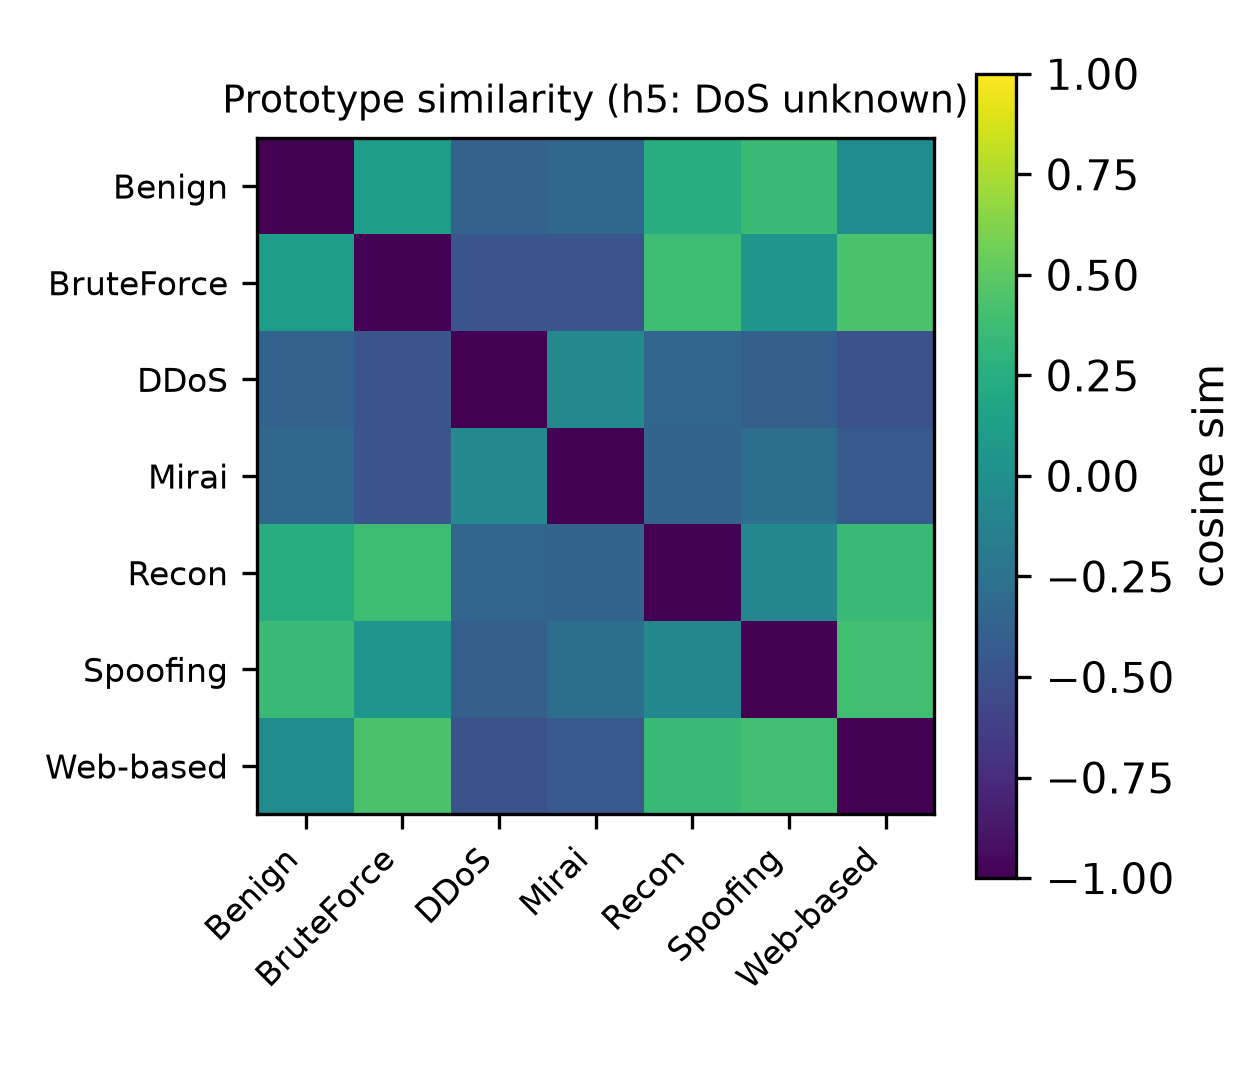
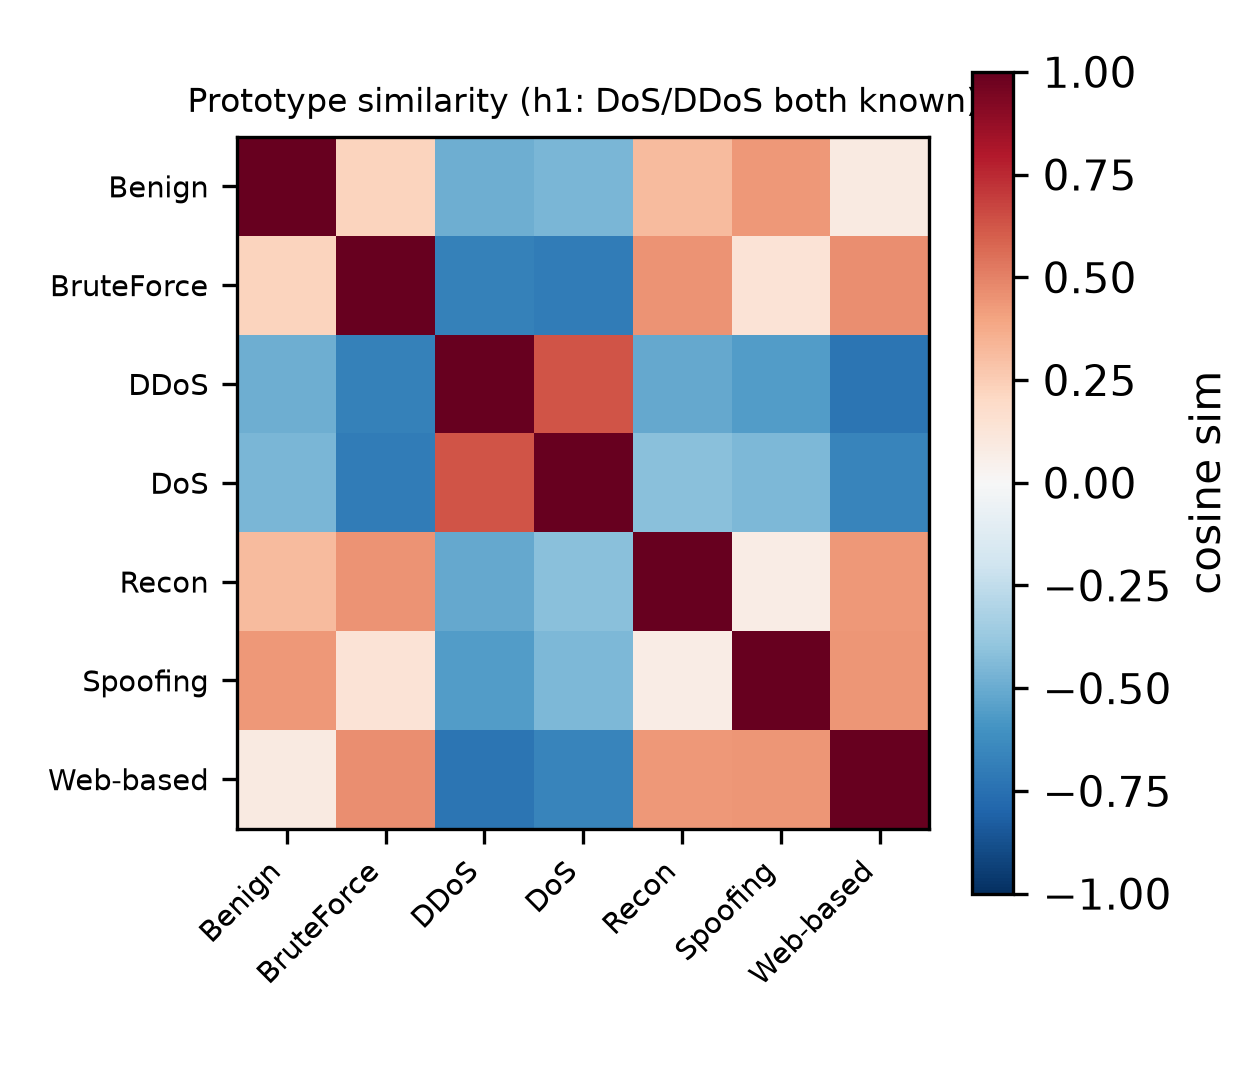
3-seed mode selection (18 runs), fusion-rule raw JSONs, fig4 h1 audit + regenerated 300dpi figure, edge benchmark

diff --git a/scripts/mode_select_3seed.py b/scripts/mode_select_3seed.py
@@ -60,7 +60,7 @@ for exp in EXPS:
         try:
             r=one(exp,s); recs.append(r)
             json.dump(r,open(OUT/f'{exp}_s{s}_modesel.json','w'),indent=2)
-            print(f'{exp:<20} s{:<5} AUROC={r["AUROC"]:.4f} OSCR={r["OSCR"]:.4f}',flush=True)
+            print("MODE {0} seed{1} AUROC={2:.4f} OSCR={3:.4f}".format(exp, s, r["AUROC"], r["OSCR"]), flush=True)
         except Exception as e:
             print('FAIL',exp,s,repr(e)[:150],flush=True)
 # aggregate vs saved s2025 results
